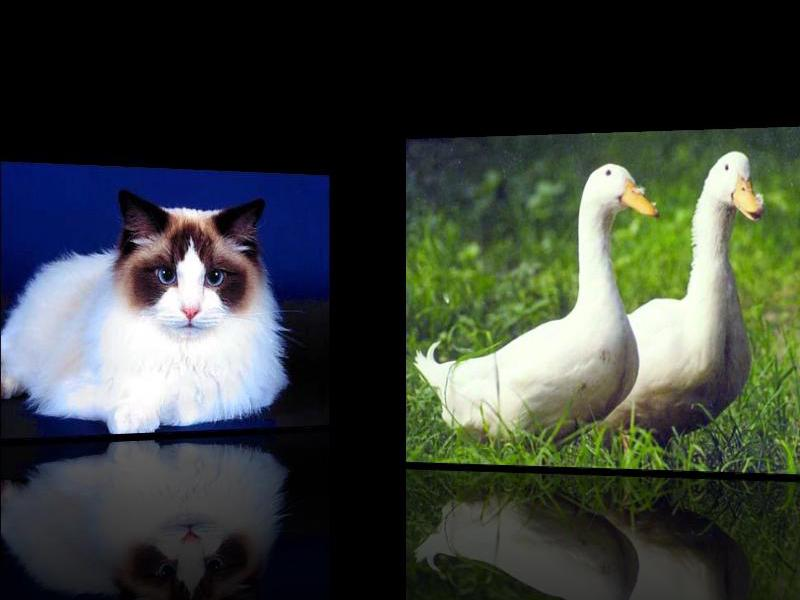
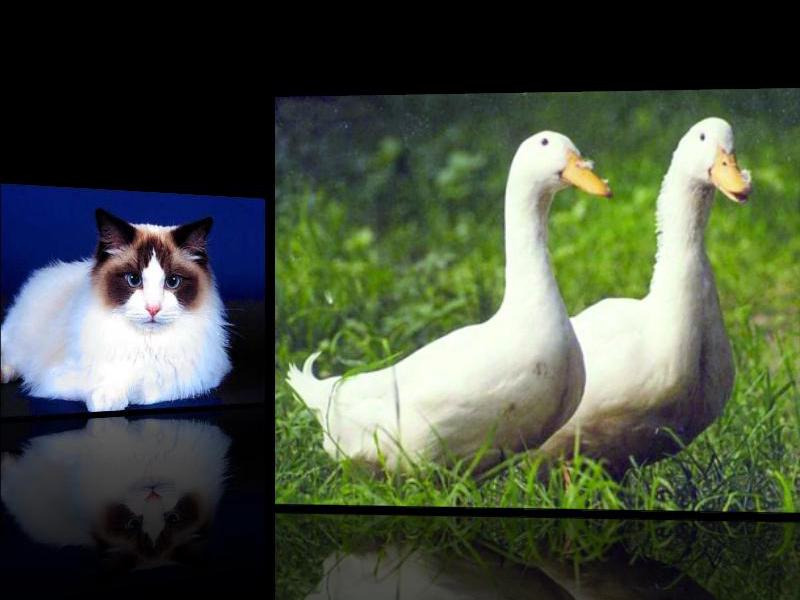
update

diff --git a/main.go b/main.go
@@ -68,7 +68,7 @@ func initGlfw() *glfw.Window {
 }
 
 // initOpenGL 初始化 OpenGL 并返回一个已经编译好的着色器程序
-func initOpengl() uint32 {
+func initOpengl(fs string) uint32 {
 
 	//gl 初始化
 	if err := gl.Init(); err != nil {
@@ -81,7 +81,7 @@ func initOpengl() uint32 {
 	log.Println("Opengl Version:", version)
 
 	//读取shader
-	fragmentByteSlice, err := ioutil.ReadFile(`./fragmentShader/transition/立体旋转.fs`)
+	fragmentByteSlice, err := ioutil.ReadFile("./fragmentShader/transition/" + fs + ".fs")
 	if err != nil {
 		panic(err)
 	}
@@ -117,6 +117,7 @@ func compileShader(source string, shaderType uint32) (uint32, error) {
 	gl.ShaderSource(shader, 1, cSource, nil) //替换着色器中的源代码
 	free()                                   //释放内存
 	gl.CompileShader(shader)                 //编译着色器对象
+
 	var status int32
 	gl.GetShaderiv(shader, gl.COMPILE_STATUS, &status) //从着色器对象返回编译结果绑定到status
 	if status == gl.FALSE {
@@ -269,7 +270,7 @@ func saveImage() {
 
 	colorBuffer := make([]byte, width*height*4)
 	gl.ReadBuffer(gl.BACK_LEFT)
-	gl.ReadPixels(0, 0, 500, 500, gl.RGBA, gl.UNSIGNED_BYTE, gl.Ptr(colorBuffer))
+	gl.ReadPixels(0, 0, width, height, gl.RGBA, gl.UNSIGNED_BYTE, gl.Ptr(colorBuffer))
 
 	img := &image.RGBA{Pix: colorBuffer, Stride: width * 4, Rect: image.Rect(0, 0, width, height)}
 	var buff bytes.Buffer
@@ -297,7 +298,7 @@ func main() {
 
 	defer glfw.Terminate() //销毁
 
-	program := initOpengl() //opengl初始化
+	program := initOpengl("立体图片") //opengl初始化
 
 	vao := createVao(quad, indices) //顶点绑定
 
